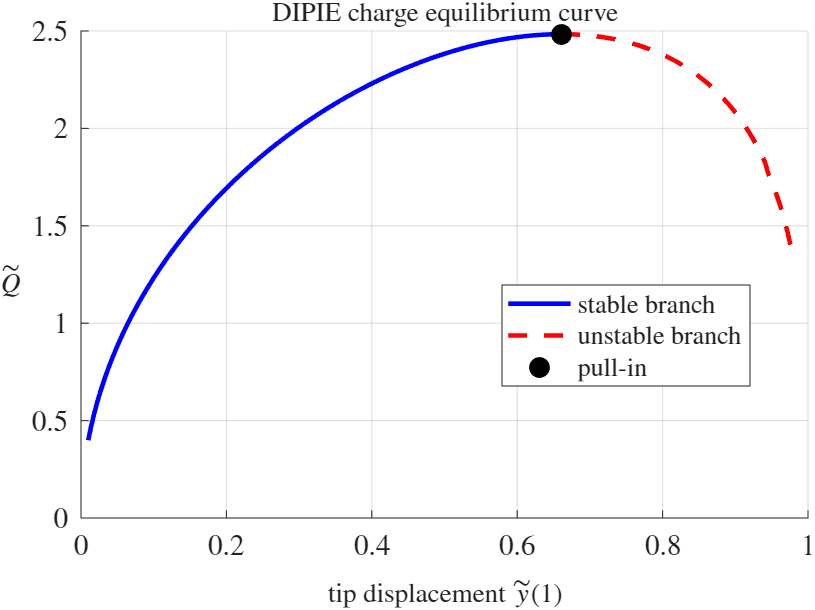
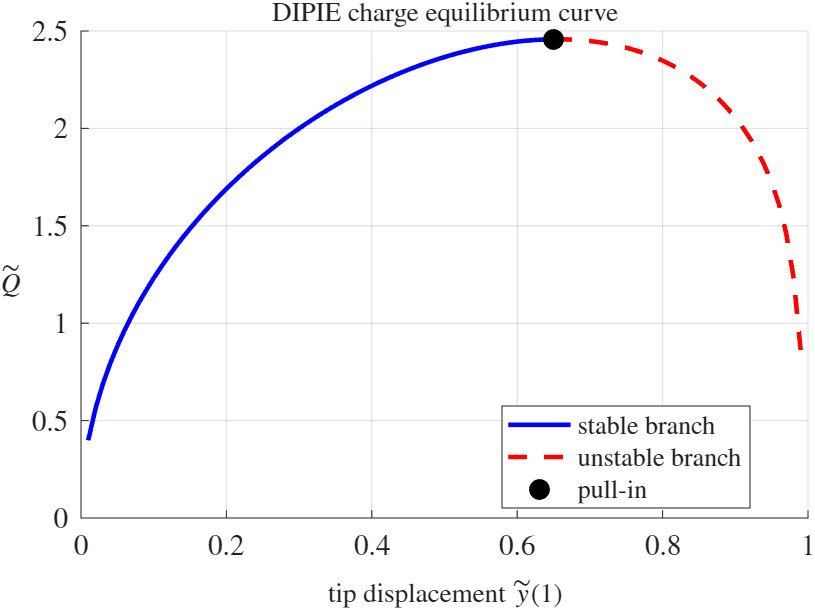
Refactor MCS2 HW001 cantilever analysis code by updating variable names, enhancing voltage iteration logic, and improving DIPIE convergence tracking. Update related figures and correct formatting in documentation.

diff --git a/Technion/MCS2/MCS2_HW001/MCS2_HW001_cantilever_dipie.m b/Technion/MCS2/MCS2_HW001/MCS2_HW001_cantilever_dipie.m
@@ -1,4 +1,4 @@
-%% MCS2 HW001 - Cantilever beam voltage iteration and DIPIE
+%% MCS2 HW001 - Cantilever Beam Voltage Iteration and DIPIE
 % Normalized governing equation:
 %   y'''' = 0.5 * V^2 / (1 - y)^2
 %
@@ -13,38 +13,47 @@ set(groot, 'defaultLegendInterpreter', 'latex');
 
 outputDir = fileparts(mfilename('fullpath'));
 
-n = 511;
+n = 1023;                 % number of unknown nodes, including the free tip
 h = 1/n;
 x = (h:h:1)';
-K = cantileverFourthDerivativeMatrix(n);
+K = cantileverStiffnessMatrix(n);
 
 %% Voltage iteration - stable branch only
 voltageList = [0.2:0.1:1.6, 1.65:0.025:1.825];
+maxVoltageIterations = 500;
+tolerance = 1e-10;
+
 y = zeros(n, 1);
 tipVoltageIteration = nan(size(voltageList));
 convergedVoltageIteration = false(size(voltageList));
 
 for i = 1:numel(voltageList)
-    [y, info] = voltageIteration(K, voltageList(i), y, 500, 1e-10);
-    tipVoltageIteration(i) = y(end);
-    convergedVoltageIteration(i) = info.converged;
+    [y, ~, converged] = voltageIteration( ...
+        K, voltageList(i), y, maxVoltageIterations, tolerance);
 
-    if ~info.converged
+    tipVoltageIteration(i) = y(end);
+    convergedVoltageIteration(i) = converged;
+
+    if ~converged
         fprintf('Voltage iteration stopped converging near V = %.4f\n', voltageList(i));
         break;
     end
 end
 
 %% DIPIE - full voltage and charge equilibrium curves
-tipDisplacementList = linspace(0.01, 0.98, 250);
+tipDisplacementList = 0.01:0.01:0.99;
+maxDipieIterations = 80;
+
 voltageDipie = nan(size(tipDisplacementList));
 chargeDipie = nan(size(tipDisplacementList));
-reactionTip = nan(size(tipDisplacementList));
+dipieConvergence = nan(maxDipieIterations, numel(tipDisplacementList));
 
 for i = 1:numel(tipDisplacementList)
-    [yDipie, voltageDipie(i), info] = dipieCantilever(K, tipDisplacementList(i), 700, 1e-11);
+    [yDipie, convergenceHistory, voltageDipie(i)] = dipieCantilever( ...
+        K, tipDisplacementList(i), maxDipieIterations);
+
     chargeDipie(i) = normalizedCharge(x, yDipie, voltageDipie(i));
-    reactionTip(i) = info.reaction(end);
+    dipieConvergence(:, i) = convergenceHistory;
 end
 
 [pullInVoltage, voltagePullInIndex] = max(voltageDipie);
@@ -58,7 +67,6 @@ fprintf('Voltage actuation: V_PI = %.6f at y_tip = %.6f\n', ...
     pullInVoltage, tipAtVoltagePullIn);
 fprintf('Charge actuation:  Q_PI = %.6f at y_tip = %.6f\n', ...
     pullInCharge, tipAtChargePullIn);
-fprintf('Max absolute DIPIE tip reaction residual: %.3e\n', max(abs(reactionTip)));
 
 %% Figures
 fig1 = figure('Position', [100, 100, 600, 400]);
@@ -99,68 +107,46 @@ legend({'stable branch', 'unstable branch', 'pull-in'}, 'Location', 'best');
 exportgraphics(fig3, fullfile(outputDir, 'cantilever_dipie_charge.png'), 'Resolution', 150);
 
 %% Local functions
-function K = cantileverFourthDerivativeMatrix(n)
-    % Unknowns are y_1, ..., y_n. The clamped node y_0 is eliminated.
-    % Free-end ghost nodes are eliminated using y''_n = 0 and y'''_n = 0.
-    K = spalloc(n, n, 5*n);
 
-    for i = 1:n
-        indices = i + (-2:2);
-        values = [1, -4, 6, -4, 1];
-        row = containers.Map('KeyType', 'double', 'ValueType', 'double');
+function K = cantileverStiffnessMatrix(n)
+    % Build the finite-difference fourth-derivative matrix for a cantilever.
+    %
+    % Unknowns are y_1, ..., y_n, where y_n is the free tip and y_0 = 0 is
+    % the clamped displacement. The stencil is [1 -4 6 -4 1].
+    %
+    % Boundary conditions are enforced by eliminating ghost nodes:
+    %   y_{-1} = y_1                                  from y'(0) = 0
+    %   y_{n+1} = 2*y_n - y_{n-1}                    from y''(1) = 0
+    %   y_{n+2} = y_{n-2} - 4*y_{n-1} + 4*y_n        from y'''(1) = 0
 
-        for j = 1:numel(indices)
-            row(indices(j)) = getOrZero(row, indices(j)) + values(j);
-        end
+    c = ones(n, 1);
+    D4 = [c, -4*c, 6*c, -4*c, c];
+    K = spdiags(D4, -2:2, n, n)';
 
-        if isKey(row, -1)
-            row(1) = getOrZero(row, 1) + row(-1);
-            remove(row, -1);
-        end
+    % Left clamp: first row contains y_{-1}; replace it by y_1.
+    K(1, 1) = K(1, 1) + 1;
 
-        if isKey(row, 0)
-            remove(row, 0);
-        end
+    % Free tip: eliminate y_{n+1} from row n-1.
+    K(n - 1, n - 1) = K(n - 1, n - 1) - 1;
+    K(n - 1, n) = K(n - 1, n) + 2;
 
-        if isKey(row, n + 1)
-            c = row(n + 1);
-            row(n) = getOrZero(row, n) + 2*c;
-            row(n - 1) = getOrZero(row, n - 1) - c;
-            remove(row, n + 1);
-        end
-
-        if isKey(row, n + 2)
-            c = row(n + 2);
-            row(n - 2) = getOrZero(row, n - 2) + c;
-            row(n - 1) = getOrZero(row, n - 1) - 4*c;
-            row(n) = getOrZero(row, n) + 4*c;
-            remove(row, n + 2);
-        end
-
-        keysInRow = cell2mat(keys(row));
-        for j = 1:numel(keysInRow)
-            col = keysInRow(j);
-            if col >= 1 && col <= n
-                K(i, col) = row(col);
-            end
-        end
-    end
+    % Free tip: eliminate y_{n+1} and y_{n+2} from row n.
+    K(n, n - 2) = K(n, n - 2) + 1;
+    K(n, n) = K(n, n) - 4;
 end
 
-function value = getOrZero(mapObject, key)
-    if isKey(mapObject, key)
-        value = mapObject(key);
-    else
-        value = 0;
-    end
-end
+function [y, convergenceHistory, converged] = voltageIteration( ...
+        K, voltage, initialGuess, maxIterations, tolerance)
+    % Fixed-point voltage iteration for a prescribed voltage.
+    %
+    % This traces only the stable branch. Near pull-in, convergence slows
+    % down; past pull-in, the voltage-controlled equilibrium disappears.
 
-function [y, info] = voltageIteration(K, voltage, initialGuess, maxIterations, tolerance)
     n = size(K, 1);
     h = 1/n;
     y = initialGuess;
-    info.converged = false;
-    info.iterations = maxIterations;
+    convergenceHistory = nan(maxIterations, 1);
+    converged = false;
 
     for iter = 1:maxIterations
         previousY = y;
@@ -168,9 +154,10 @@ function [y, info] = voltageIteration(K, voltage, initialGuess, maxIterations, t
         y = K \ rhs;
 
         relativeChange = norm(y - previousY, inf) / max(norm(y, inf), eps);
+        convergenceHistory(iter) = relativeChange;
+
         if relativeChange < tolerance && all(isfinite(y)) && max(y) < 1
-            info.converged = true;
-            info.iterations = iter;
+            converged = true;
             return;
         end
 
@@ -180,66 +167,50 @@ function [y, info] = voltageIteration(K, voltage, initialGuess, maxIterations, t
     end
 end
 
-function [y, voltage, info] = dipieCantilever(K, prescribedTipDisplacement, maxIterations, tolerance)
+function [y, convergenceHistory, voltage] = dipieCantilever( ...
+        K, prescribedTipDisplacement, maxIterations)
+    % DIPIE iteration for a cantilever with prescribed tip displacement.
+    %
+    % The tip displacement is fixed. The remaining nodal displacements are
+    % updated by repeatedly estimating a uniform voltage from the current
+    % local nodal voltages, following the lecture DIPIE scheme.
+
     n = size(K, 1);
     h = 1/n;
     tipNode = n;
-    activeNodes = 1:n-1;
+    freeNodes = 1:n-1;
 
     y = zeros(n, 1);
     y(tipNode) = prescribedTipDisplacement;
-    y(activeNodes) = K(activeNodes, activeNodes) \ ...
-        (-K(activeNodes, tipNode)*prescribedTipDisplacement);
 
-    localVoltageSquared = 2*(K*y)/h^4 .* (1 - y).^2;
-    voltageSquared = max(mean(localVoltageSquared), eps);
-    info.converged = false;
-    info.iterations = maxIterations;
+    rhs = -K(:, tipNode)*prescribedTipDisplacement;
+    y(freeNodes) = K(freeNodes, freeNodes) \ rhs(freeNodes);
+
+    convergenceHistory = nan(maxIterations, 1);
+    voltageSquared = 0;
 
     for iter = 1:maxIterations
-        residual = K*y - 0.5*h^4*voltageSquared ./ (1 - y).^2;
+        previousY = y;
 
-        if norm(residual, inf) < tolerance
-            info.converged = true;
-            info.iterations = iter;
-            break;
-        end
+        localVoltageSquared = 2*(K*y)/h^4 .* (1 - y).^2;
+        voltageSquared = mean(localVoltageSquared);
 
-        diagonalCorrection = -h^4*voltageSquared ./ (1 - y).^3;
-        displacementJacobian = K(:, activeNodes) + ...
-            sparse(activeNodes, activeNodes, diagonalCorrection(activeNodes), n, n-1);
-        voltageJacobian = -0.5*h^4 ./ (1 - y).^2;
-        jacobian = [displacementJacobian, voltageJacobian];
+        forcingScale = 0.5*h^4*voltageSquared;
+        rhs = forcingScale ./ (1 - y).^2 - K(:, tipNode)*prescribedTipDisplacement;
 
-        step = -jacobian \ residual;
+        y(freeNodes) = K(freeNodes, freeNodes) \ rhs(freeNodes);
+        y(tipNode) = prescribedTipDisplacement;
 
-        stepScale = 1;
-        for lineSearchIter = 1:12
-            trialY = y;
-            trialY(activeNodes) = y(activeNodes) + stepScale*step(1:end-1);
-            trialY(tipNode) = prescribedTipDisplacement;
-            trialVoltageSquared = voltageSquared + stepScale*step(end);
-
-            if trialVoltageSquared > 0 && max(trialY) < 1
-                trialResidual = K*trialY ...
-                    - 0.5*h^4*trialVoltageSquared ./ (1 - trialY).^2;
-                if norm(trialResidual, inf) < norm(residual, inf)
-                    y = trialY;
-                    voltageSquared = trialVoltageSquared;
-                    break;
-                end
-            end
-
-            stepScale = 0.5*stepScale;
-        end
+        convergenceHistory(iter) = norm(y - previousY, inf) / max(norm(y, inf), eps);
     end
 
     voltage = sqrt(max(voltageSquared, 0));
-    rhs = 0.5*h^4*voltage^2 ./ (1 - y).^2;
-    info.reaction = (K*y - rhs)/h^4;
 end
 
 function charge = normalizedCharge(x, y, voltage)
+    % Normalized charge:
+    %   Q = V * integral_0^1 1/(1-y(x)) dx
+
     xWithClamp = [0; x];
     yWithClamp = [0; y];
     capacitanceShapeFactor = trapz(xWithClamp, 1 ./ (1 - yWithClamp));

diff --git a/Technion/MCS2/MCS2_001 DIPIE.md b/Technion/MCS2/MCS2_001 DIPIE.md
@@ -8,7 +8,9 @@ Real MEMS beams, however, are **distributed systems** with infinitely many degre
 
 ## Euler-Bernoulli Beam Theory
 As developed in [[MCS1_003 לינאריות קורה בכפיפה|beam bending theory]], the Euler-Bernoulli assumption relates the bending moment $M(x)$ at a cross-section to the local curvature $\kappa$ through:
-$$\dfrac{1}{\rho(x)}=\kappa(x)=\dfrac{M(x)}{EI}\tag{1.1}$$where $E$ is Young's modulus, $I$ is the second moment of the beam cross-section, and $\rho$ is the radius of curvature. The exact curvature for an inextensible beam is:
+$$\dfrac{1}{\rho(x)}=\kappa(x)=\dfrac{M(x)}{EI}\tag{1.1}$$
+
+where $E$ is Young's modulus, $I$ is the second moment of the beam cross-section, and $\rho$ is the radius of curvature. The exact curvature for an inextensible beam is:
 $$\kappa=\dfrac{1}{\rho}=\dfrac{\mathrm{d}\theta}{\mathrm{d}s}$$
 where $\theta$ is the rotation angle of the beam centerline and $s$ is the arc-length coordinate along the beam. For large rotation angles, the governing equation becomes the **Elastica equation**:
 